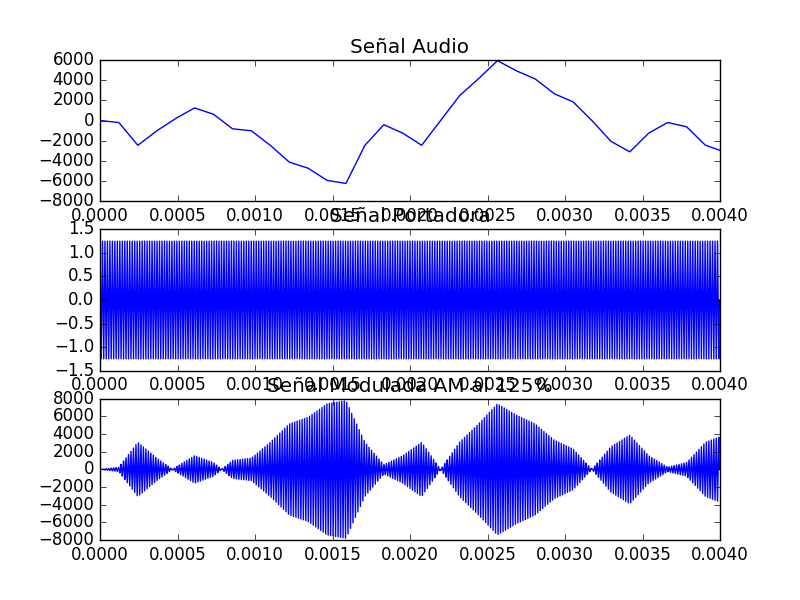
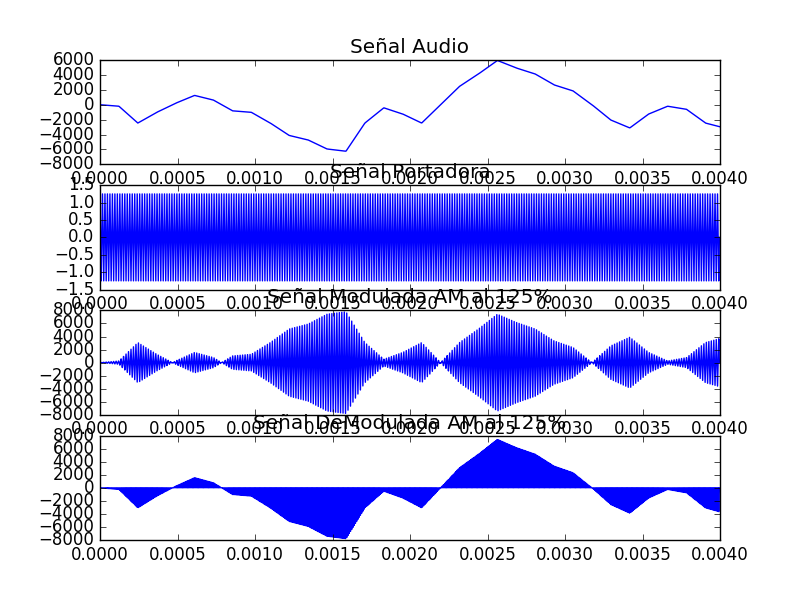
muriendo

diff --git a/laboratorio3.py b/laboratorio3.py
@@ -65,6 +65,16 @@ def timeGraphic(data, rate,title):
 	t = linspace(0, duration, len(data)) # Intervalos de tiempo de 0 a t, generando la misma cantidad de datos que hay en data o vector tiempo
 	makeGraphic(title, "Tiempo [s]", t, "Amplitud [dB]", data)
 
+
+def demoduladorAM(percentage,timesModulated,dataModulated):
+    timesCarrier = linspace(0,totalTime,250000*totalTime)
+    dataCarrier = cos(2*pi*62500*timesCarrier)
+    demoduleAM = dataModulated*dataCarrier
+    return demoduleAM
+
+def saveWav(title, rate, data):
+        write(title + ".wav", rate, data.astype('int16'))
+
 def modulacionAM(percentage,dataAudio,timesAudio,rate,totalTime):
     #Señal Portadora
     timesCarrier = linspace(0,totalTime,250000*totalTime)
@@ -78,25 +88,28 @@ def modulacionAM(percentage,dataAudio,timesAudio,rate,totalTime):
 
     #Gráficos
     fig = plt.figure(1)
-    plt.subplot(311)
+    plt.subplot(411)
     plt.title("Señal Audio")
     graph1 = plt.plot(timesCarrier[0:1000],newData[0:1000])
-    plt.subplot(312)
+    plt.subplot(412)
     plt.title("Señal Portadora")
     graph2 = plt.plot(timesCarrier[0:1000],dataCarrier[0:1000])
-    plt.subplot(313)
+    plt.subplot(413)
     plt.title("Señal Modulada AM al " +str(percentage)+"%")
     graph3 = plt.plot(timesCarrier[0:1000],AM[0:1000])
 
+    demo = demoduladorAM(percentage,timesCarrier,AM)
+
+
+    plt.subplot(414)
+    plt.title("Señal DeModulada AM al " +str(percentage)+"%")
+    graph3 = plt.plot(timesCarrier[0:1000],demo[0:1000])
+    saveWav("salida", 250000, demo)
     plt.savefig("images/modulacionAM"+str(percentage)+".png")
     plt.show()
+    
+    saveWav("salida", 250000, demo)
     return AM,timesCarrier
-
-def demoduladorAM(percentage,timesModulated,dataModulated):
-    timesCarrier = linspace(0,totalTime,250000*totalTime)
-    dataCarrier = 100*cos(2*pi*62500*timesCarrier)
-    demoduleAM = dataModulated*dataCarrier
-    return demoduleAM
 
 def modFM(percentage, dataAudio, timesAudio, rate, totalTime):
         freqP = 5/2 * rate # Se necesita de una frecuencia portadora que sea la mitad de la freq obtenida y minimo 4 veces mayor a la freq de muestreo.
@@ -130,8 +143,7 @@ def modFM(percentage, dataAudio, timesAudio, rate, totalTime):
         plt.show()
         return 
   
-def saveWav(title, rate, data):
-        write(title + ".wav", rate, data.astype('int16'))
+
 
 def tFourier(data,  rate):
         n = len(data)
